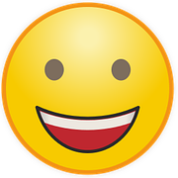
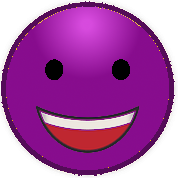
---

diff --git a/main.py b/main.py
@@ -1,6 +1,7 @@
 import pygame as pg
 from random import randint
 import os
+from pathlib import Path
 
 from elements import *
 from spaces import *
@@ -11,28 +12,53 @@ os.system("clear && clear")
 pg.init()
 clock = pg.time.Clock()
 
+FPS = 40
 WIDTH_WIN = 900
 HEIGHT_WIN = 760
 
 GS_WIDTH = WIDTH_WIN * 0.88
 GS_HEIGHT = HEIGHT_WIN * 0.69
 GS_Y = HEIGHT_WIN * 0.25
-GS_X = HEIGHT_WIN * 0.07
+GS_X = WIDTH_WIN * 0.07
 
-bg_src = './src/background.png'
+ROOT = Path(__file__).parent
+SRC = ROOT / 'src'
+SMILES = SRC / 'smiles'
+
+bg_src = SRC / 'background.png'
+radost = SMILES / 'radost.png'
+zzz = SMILES / 'zzz.png'
+nyam = SMILES / 'nyamnyam.png'
+hohot = SMILES / 'hohot.png'
+gnev = SMILES / 'gnev.png'
+balbes = SMILES / 'balbes.png'
+pechal = SMILES / 'pechal.png'
+krutoy = SMILES / 'krutoy.png'
+ulybka = SMILES / 'ulybka.png'
+udivlenie = SMILES / 'udivlenie.png'
+
+
+
+
 
 screen = pg.display.set_mode((WIDTH_WIN, HEIGHT_WIN))
 pg.display.set_caption("Три в ряд")
 
 bg_space = Space(bg_src, WIDTH_WIN, HEIGHT_WIN)
-gamespace = GameSpace((0,0,0,0), GS_WIDTH, GS_HEIGHT, (GS_X, GS_Y))
+gamespace = GameSpace((250, 250, 250, 50), GS_WIDTH, GS_HEIGHT, (GS_X, GS_Y))
 
+element_size = gamespace.get_element_size(2, 2, 5)
+top, left = gamespace.get_first_paddings(element_size, 5)
+top += GS_Y
+left += GS_X
+
+test_element = Element(balbes, element_size, element_size, (left, top))
 
 def main():
     running = True
+    animate = False
 
     while running:
-        clock.tick(30)
 
         for event in pg.event.get():
             if event.type == pg.QUIT:
@@ -41,7 +67,12 @@ def main():
             
             # обработка нажатия левой кнопки мыши
             if event.type == pg.MOUSEBUTTONDOWN and event.button == 1:
-                ...
+                mpos = pg.mouse.get_pos()
+                # if pg.mouse.get_focused():
+                #     ...
+                #     test_element.selected = not test_element.selected
+                #     if not test_element.selected:
+                #         test_element.reset()
 
         screen.fill((55, 55, 55))
         screen.blit(bg_space.image, (0,0))
@@ -49,10 +80,14 @@ def main():
         gamespace.draw(screen)
         gamespace.draw_rect(screen)
         
+        test_element.draw(screen)
+        test_element.draw_rect(screen)
+        test_element.animate_select(70)
+        
 
         pg.display.flip()
 
-        clock.tick(40)
+        clock.tick(FPS)
     pg.quit()
 
 
